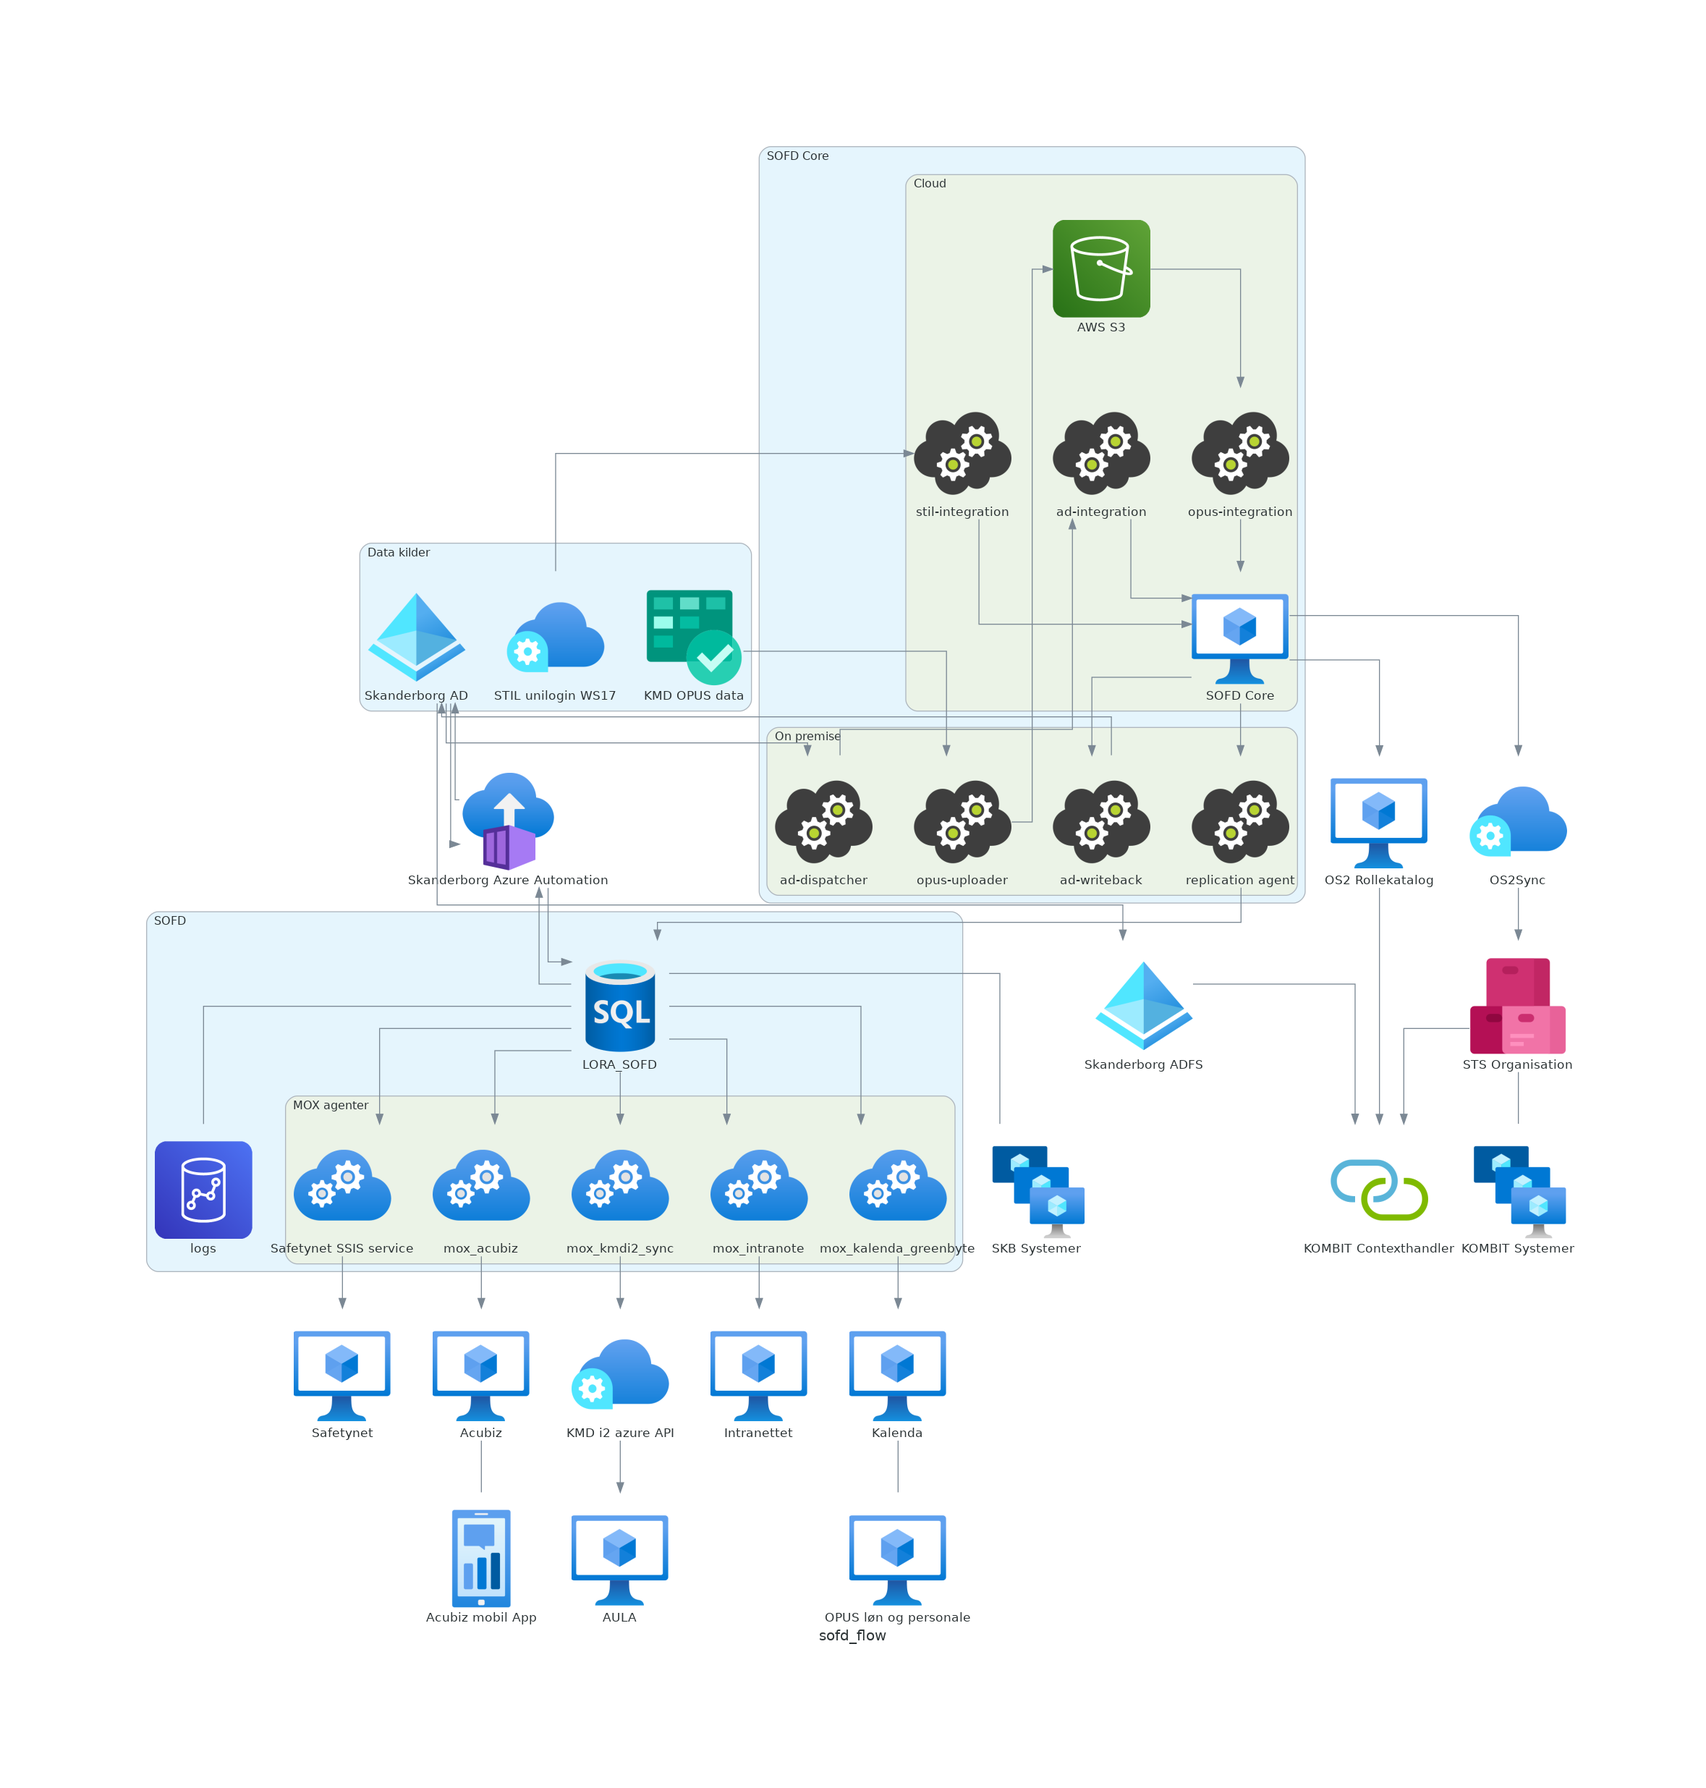
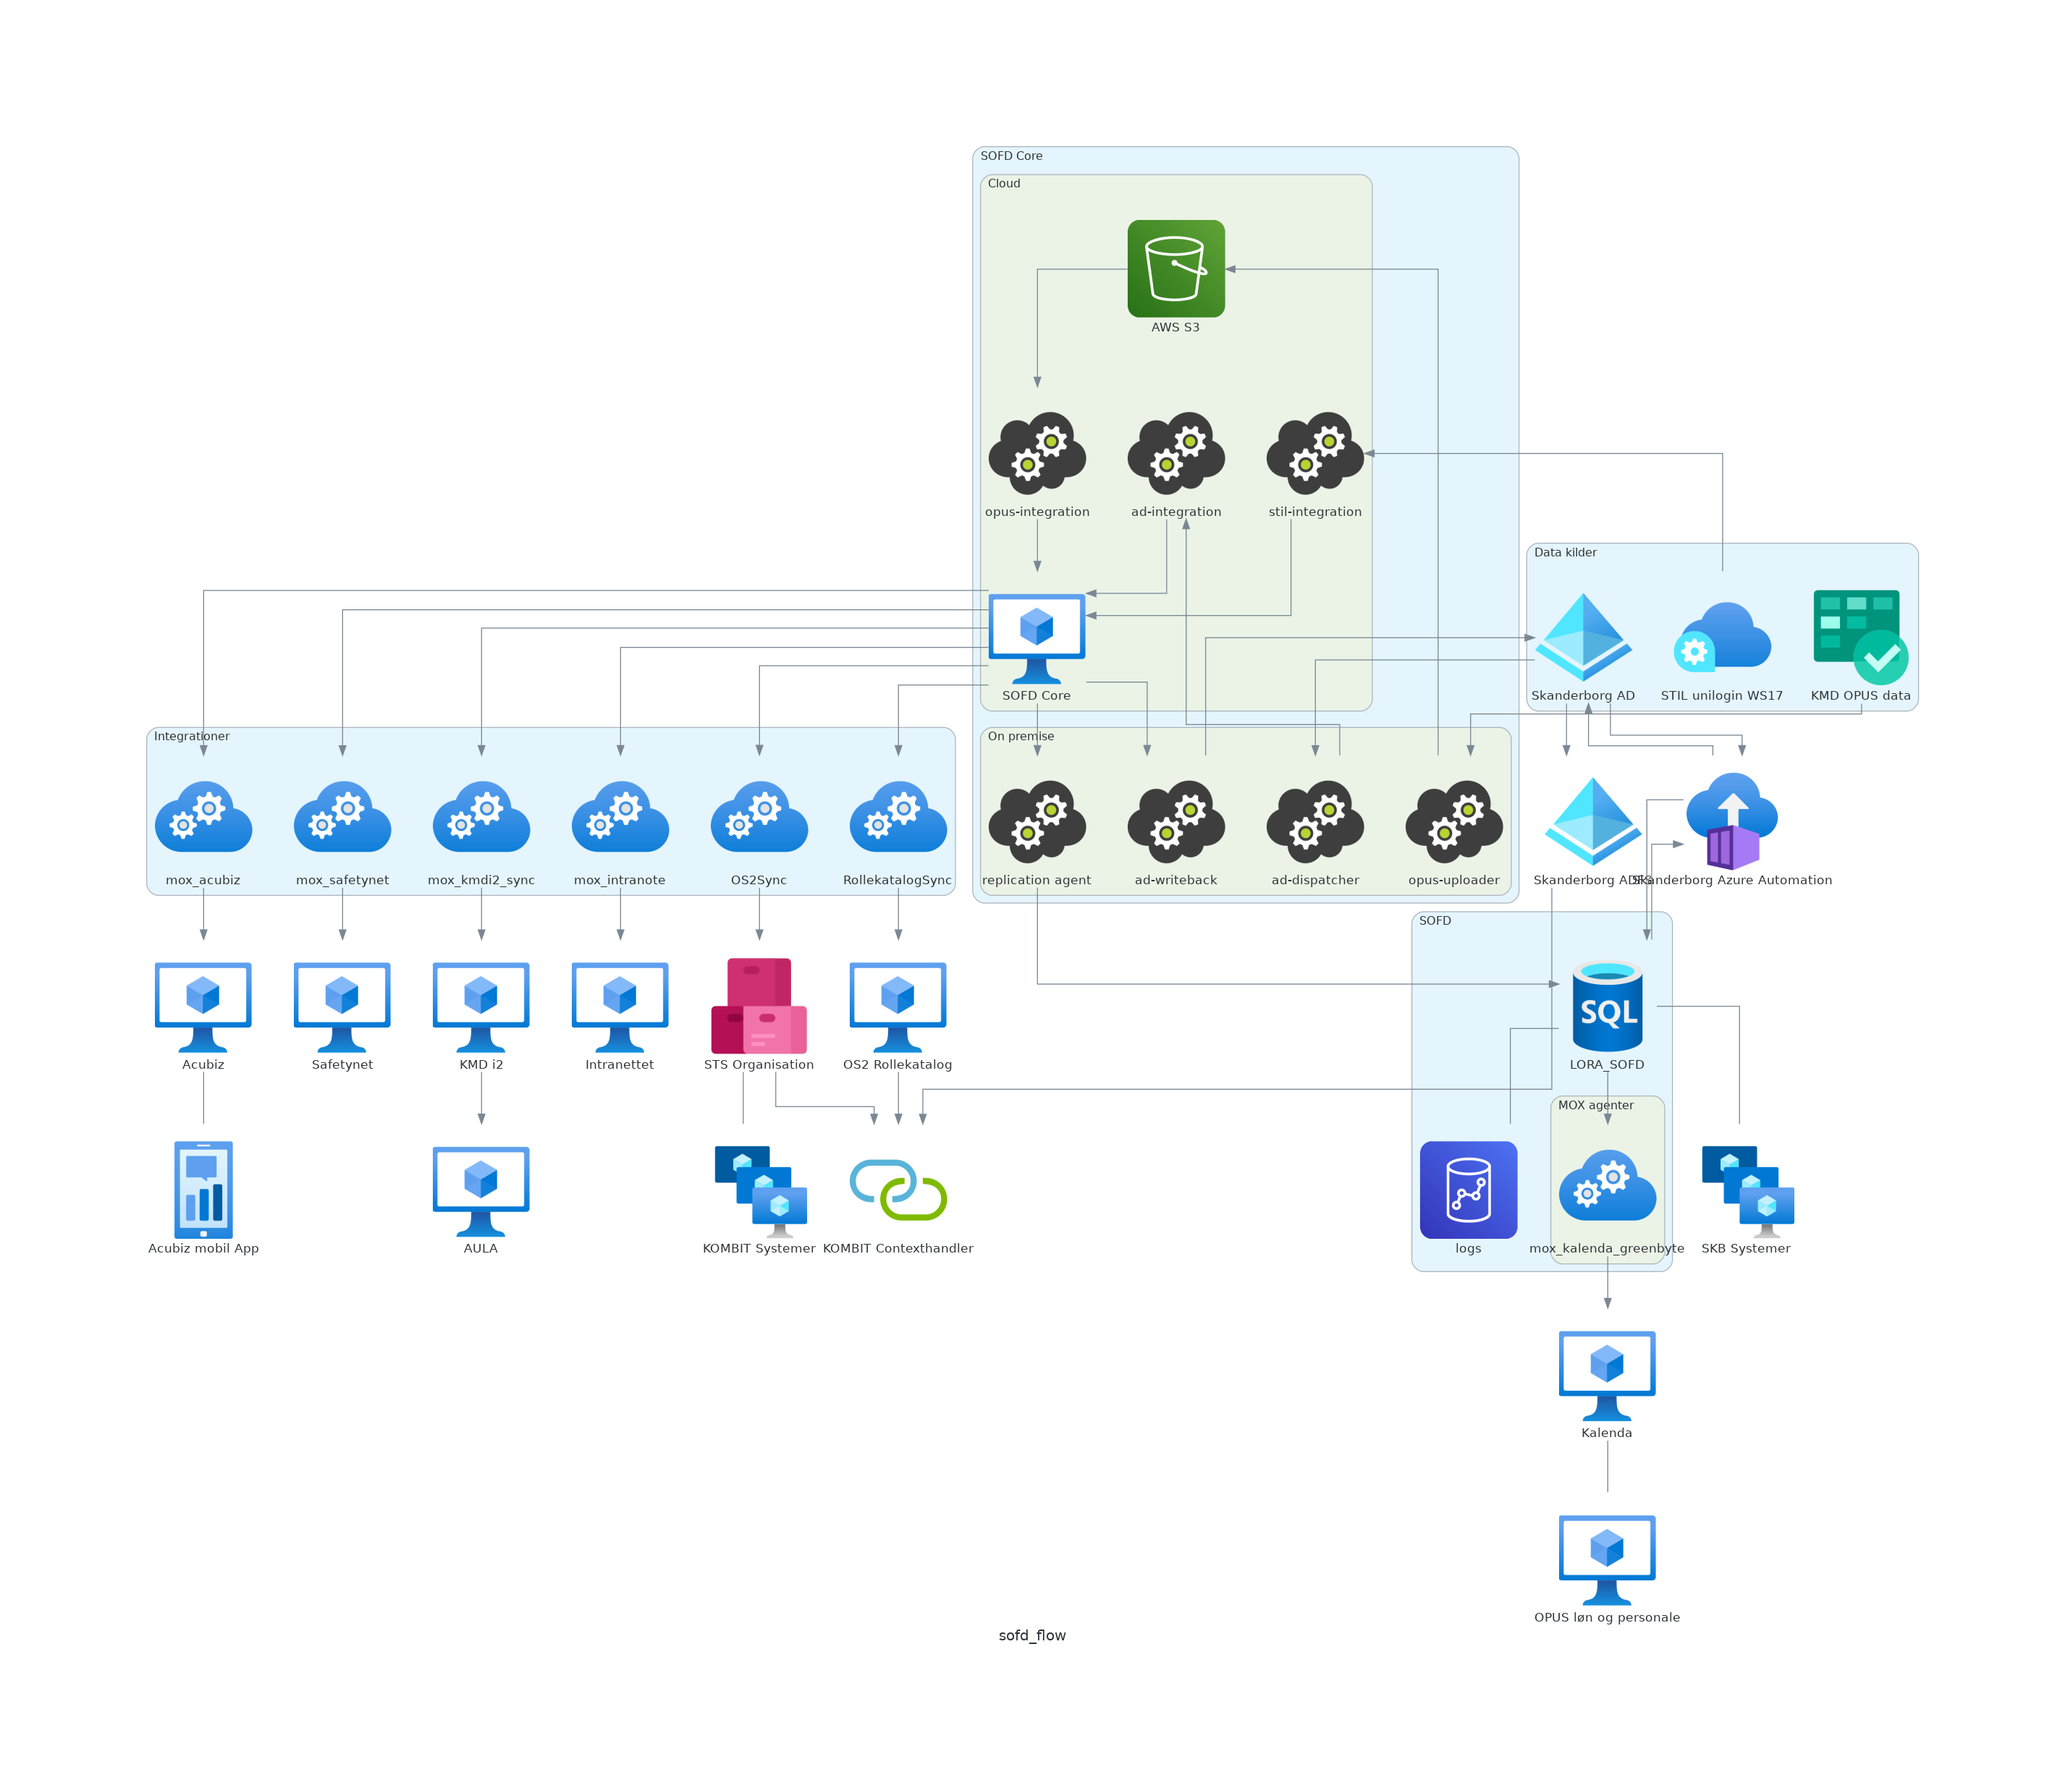
updated sofd diagram

diff --git a/diagrams/sofd_diagram.py b/diagrams/sofd_diagram.py
@@ -22,12 +22,12 @@ with Diagram('sofd_flow', show=False, direction='TB'):
             stil_integration = CloudServices('stil-integration')        
             aws_s3 = SimpleStorageServiceS3('AWS S3')
             sofd_core =  VMClassic('SOFD Core')
+
         with Cluster('On premise'):
             ad_dispatcher = CloudServices('ad-dispatcher')
             opus_uploader = CloudServices('opus-uploader')
             ad_writeback = CloudServices('ad-writeback')
-            replication_agent = CloudServices('replication agent')
-            
+            replication_agent = CloudServices('replication agent')            
 
     with Cluster('Data kilder'):
         opus_data = Boards('KMD OPUS data')
@@ -37,38 +37,42 @@ with Diagram('sofd_flow', show=False, direction='TB'):
     azure_services = ContainerInstances('Skanderborg Azure Automation')
     adfs = ActiveDirectory('Skanderborg ADFS')
 
+    with Cluster('Integrationer'):
+        mox_safetynet = CloudServicesClassic('mox_safetynet')
+        mox_acubiz = CloudServicesClassic('mox_acubiz')
+        mox_kmdi2 = CloudServicesClassic('mox_kmdi2_sync')
+        mox_intranote = CloudServicesClassic('mox_intranote')
+        os2sync = CloudServicesClassic('OS2Sync')
+        os2rollekatalogsync = CloudServicesClassic('RollekatalogSync')
+
+
     with Cluster('SOFD'):
         sofden = SQLDatabases('LORA_SOFD')
         sofden - Redshift('logs')
         with Cluster('MOX agenter'):
-            mox_kmdi2 = CloudServicesClassic('mox_kmdi2_sync')
-            mox_intranote = CloudServicesClassic('mox_intranote')
             mox_kalenda_greenbyte = CloudServicesClassic('mox_kalenda_greenbyte')
-            mox_safetynet = CloudServicesClassic('Safetynet SSIS service')
-            mox_acubiz = CloudServicesClassic('mox_acubiz')
     sofden - VMScaleSet('SKB Systemer')
     sts_org = Artifacts('STS Organisation')
     sts_org - VMScaleSet('KOMBIT Systemer')
     intranettet = VMClassic('Intranettet')
-    os2_rollekatalog = VMClassic('OS2 Rollekatalog')
-    kmd_i2 = DataBoxEdgeDataBoxGateway('KMD i2 azure API')
+    kmd_i2 = VMClassic('KMD i2')
     aula = VMClassic('AULA')
     kalenda = VMClassic('Kalenda')
     kalenda - VMClassic('OPUS løn og personale')
     safetynet = VMClassic('Safetynet')
     acubiz = VMClassic('Acubiz')
     acubiz - MobileEngagement('Acubiz mobil App')
-    kombit_context_handler = APIConnections('KOMBIT Contexthandler')
-    os2sync = DataBoxEdgeDataBoxGateway('OS2Sync')
+    kombit_context_handler = APIConnections('KOMBIT Contexthandler')    
+    os2_rollekatalog = VMClassic('OS2 Rollekatalog')
 
     #kø og mox
     ad_data >> adfs >> kombit_context_handler
     sts_org >> kombit_context_handler
-    sofden >> mox_acubiz >> acubiz
-    sofden >> mox_safetynet >> safetynet
+    sofd_core >> mox_acubiz >> acubiz
+    sofd_core >> mox_safetynet >> safetynet
+    sofd_core >> mox_intranote >> intranettet
+    sofd_core >> mox_kmdi2 >> kmd_i2 >> aula
     sofden >> mox_kalenda_greenbyte >> kalenda
-    sofden >> mox_intranote >> intranettet
-    sofden >> mox_kmdi2 >> kmd_i2 >> aula
     os2sync >> sts_org
     os2_rollekatalog >> kombit_context_handler
     #setup
@@ -76,7 +80,7 @@ with Diagram('sofd_flow', show=False, direction='TB'):
     opus_data >> opus_uploader >> aws_s3 >> opus_integration >> sofd_core
     uni_data >> stil_integration >> sofd_core    
     ad_data >> ad_dispatcher >> ad_integration >> sofd_core
-    sofd_core >> os2_rollekatalog
+    sofd_core >> os2rollekatalogsync >> os2_rollekatalog
     sofd_core >> os2sync
     sofd_core >> replication_agent >> sofden
     sofd_core >> ad_writeback >> ad_data
